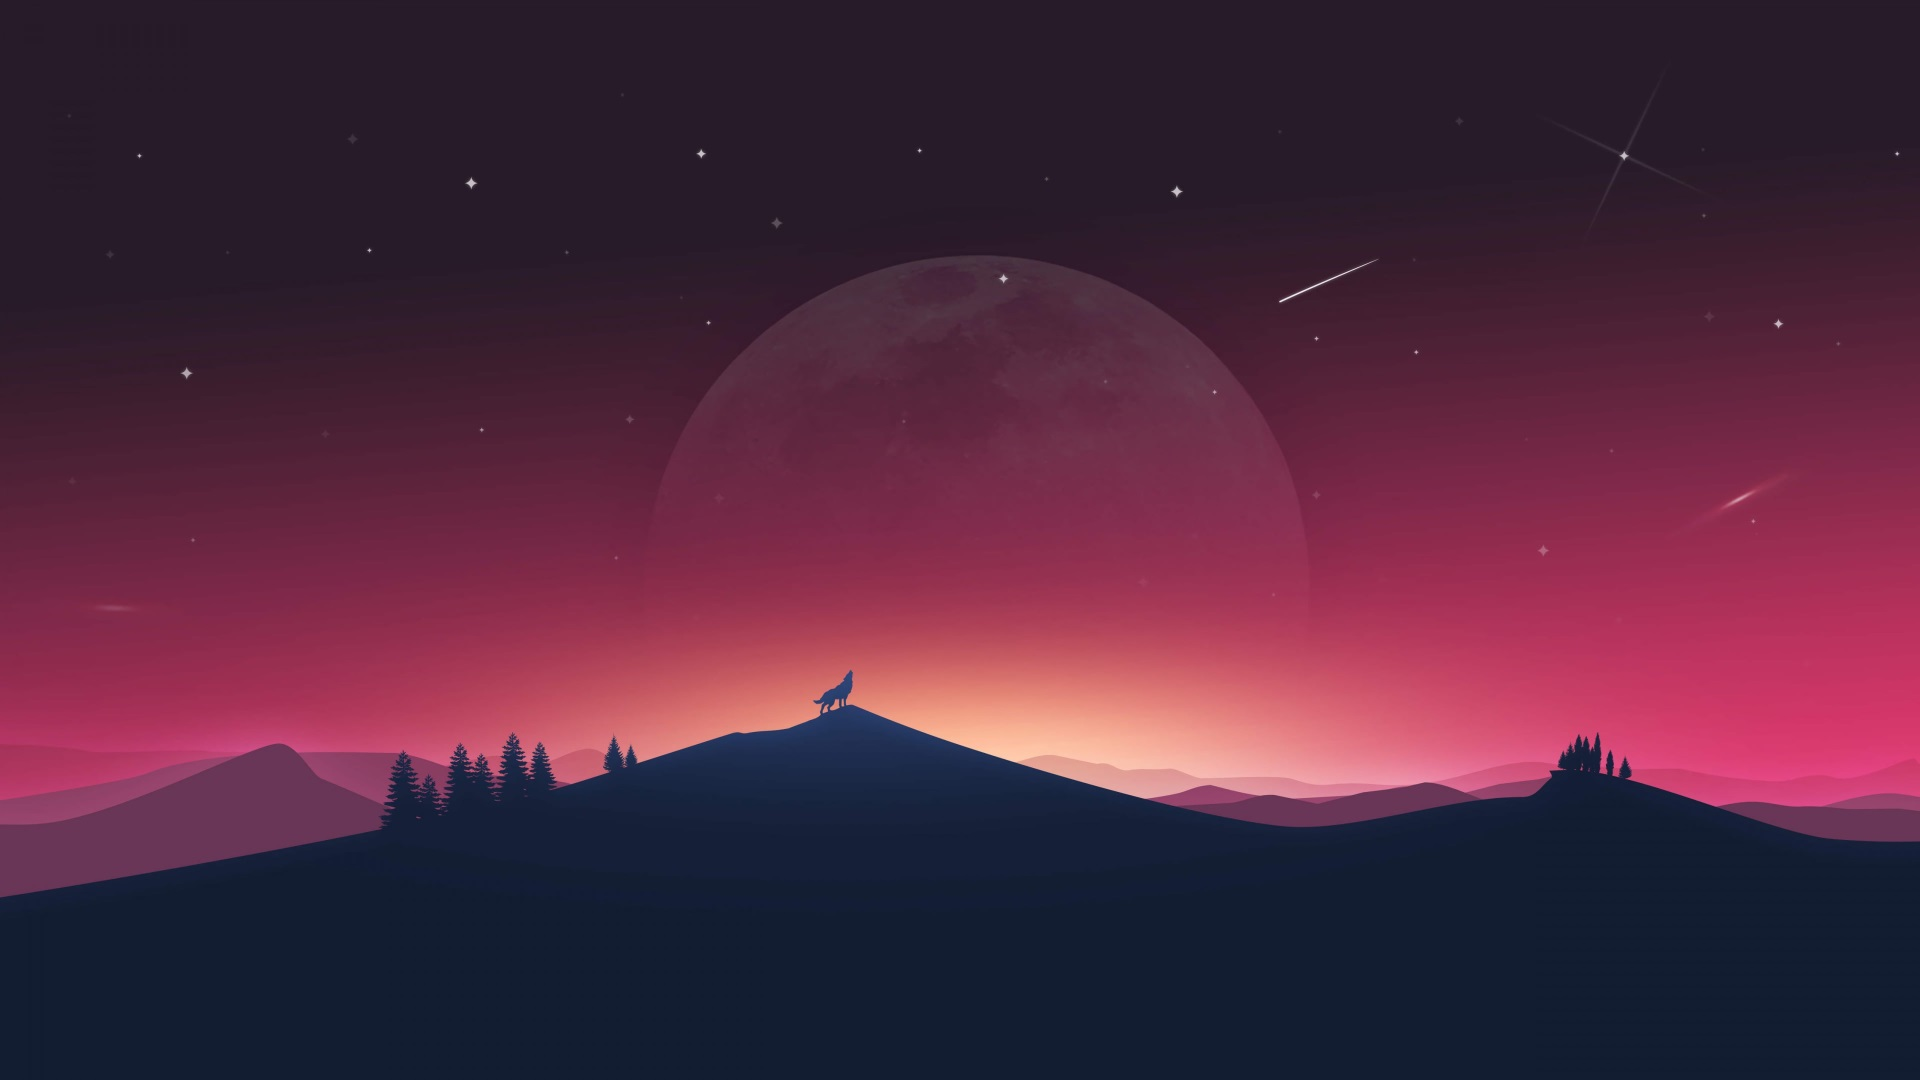
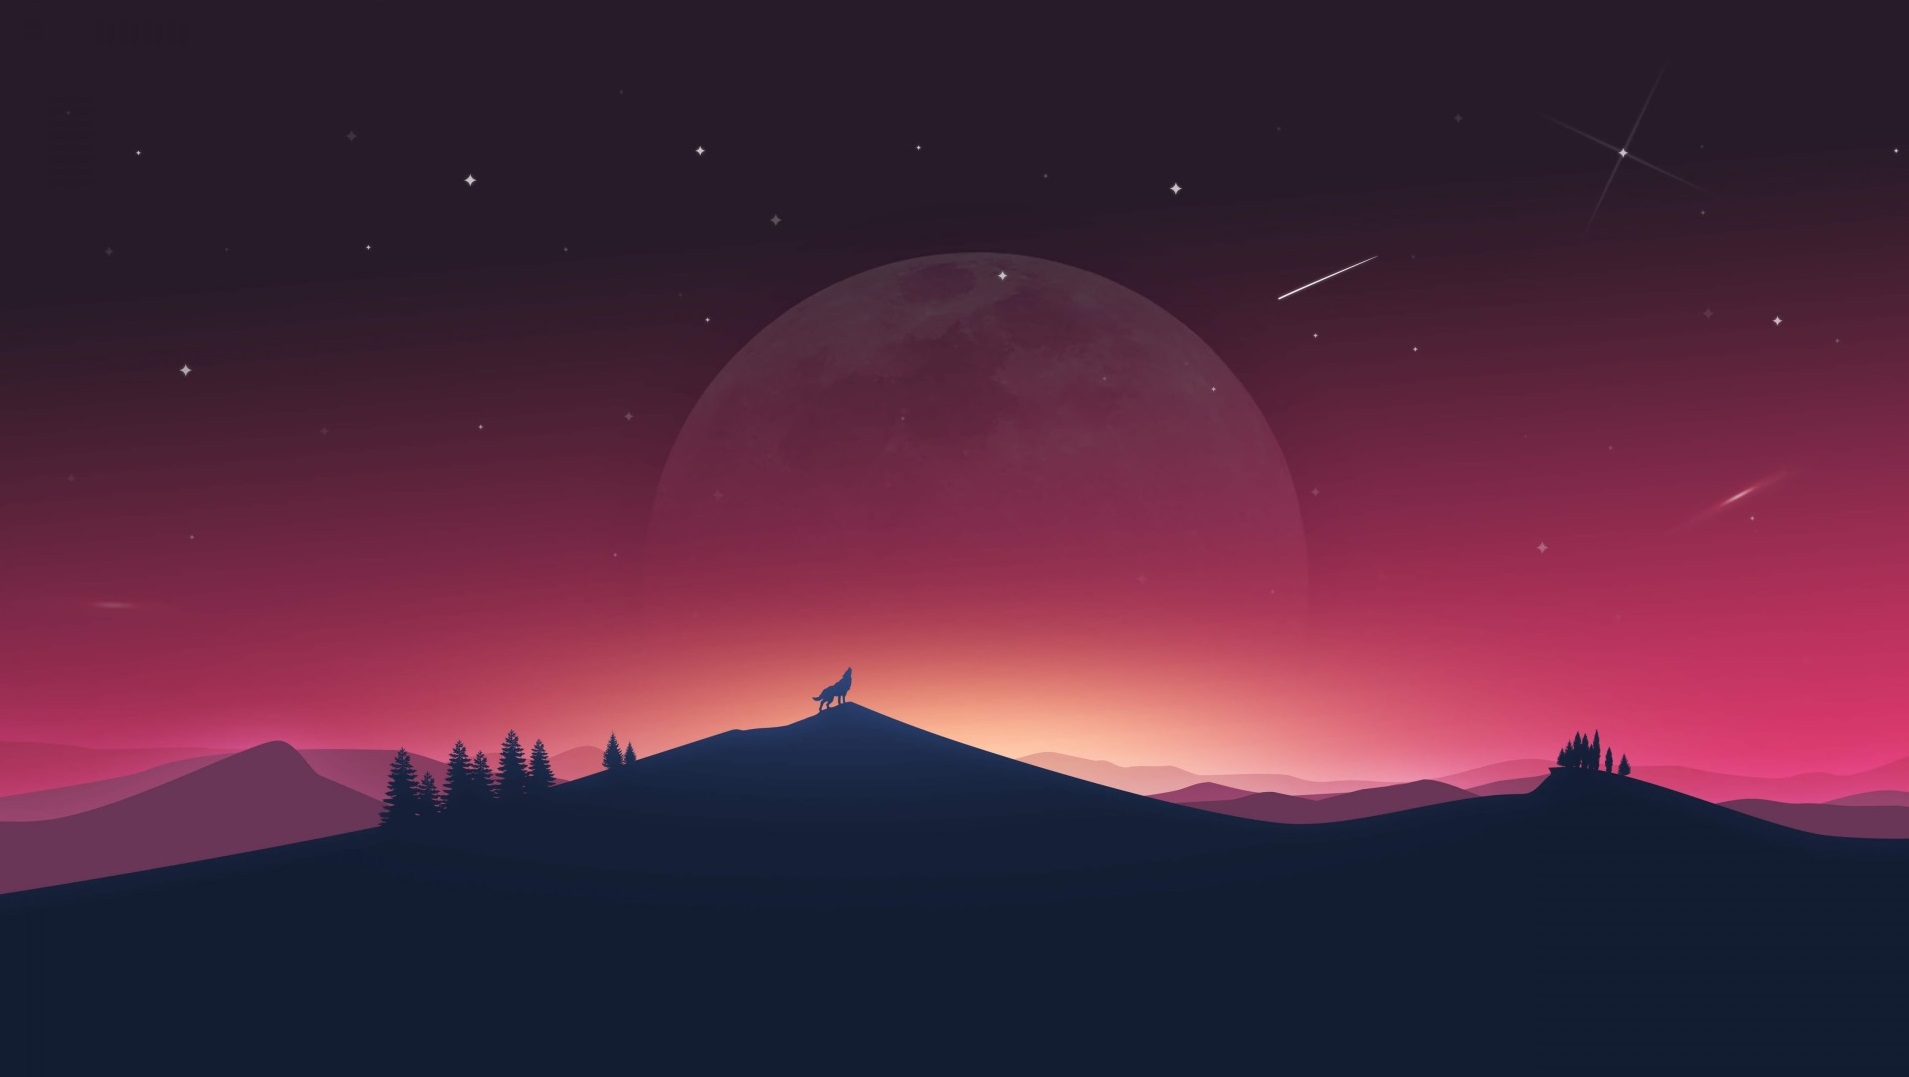
update

diff --git a/index.html b/index.html
@@ -12,9 +12,9 @@
     body {
         background: url(imagenes/1.jpg);
         background-color: rgba(240, 183, 183, 0.986);
-        background-position-x: 50%;
-        background-position-y: -40%;
-        background-size: 45.8%;
+        background-position-x: 50.1%;
+        background-position-y: 3.8%;
+        background-size: 32.5%;
         background-repeat: no-repeat;
         margin: 0;
         height: 200vh;
@@ -25,7 +25,7 @@
   
   <header>
     <h1>Estudiante: Jonas Alanes</h1>
-    <img src="https://scontent.flpb3-1.fna.fbcdn.net/v/t39.30808-6/244424724_2153780714780272_4673410337418186856_n.jpg?_nc_cat=101&ccb=1-5&_nc_sid=09cbfe&_nc_ohc=I01Els6WcUkAX_hj4H-&_nc_ht=scontent.flpb3-1.fna&oh=d496553962789c34c766567e098c0ddb&oe=61B2494B" 
+    <img src="imagenes/2.jpg" 
     alt="My Profile Picture">
     
   </header> 
